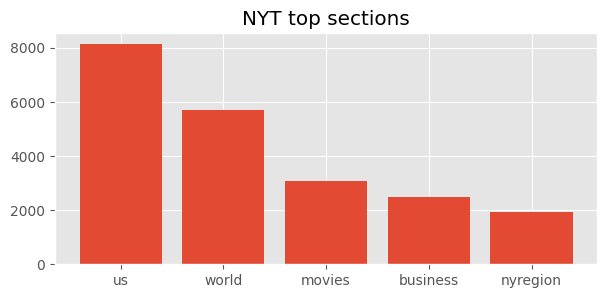
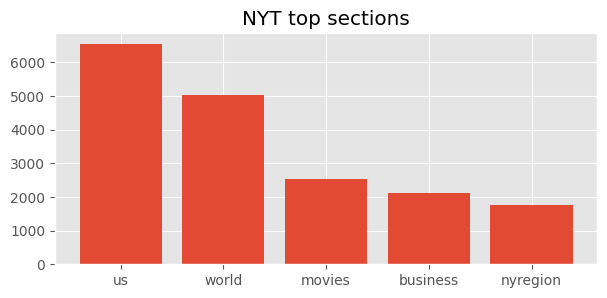
write more text about data

diff --git a/content/data-description.md b/content/data-description.md
@@ -3,15 +3,37 @@ title: Data description
 prev: "/"
 next: network-analysis
 ---
-Our data consists of news articles from Reuters and The New York Times. We specifically chose to work with news articles as there is an apparent connection between a collaboration network of authors and text that they produce together.
+The data used for this project is a subset of [All the News 2.0](https://components.one/datasets/all-the-news-2-news-articles-dataset/), which contains 2,677,878 news articles American publications spanning from January 1, 2016 to April 2, 2020.
 
+We chose to work with articles from the two publications with the most articles in the dataset: Reuters with 840,094 articles, and The New York Times (NYT) with 252,259 authors.
 
-The data used for this project is a subset of [All the News 2.0](https://components.one/datasets/all-the-news-2-news-articles-dataset/), which is an expanded version of the original All the News dataset.
-All the News 2.0 contains 2,677,878 articles with the publications spanning from January 1, 2016 to April 2, 2020.
+The dataset contains 10 features: authors, title, article text, url, section, publication and four features describing the time of publication.
+The features used in this project are: authors, article text, and section. 
 
-We chose to work with articles from the two publications with the most articles in the dataset: Reuters with 840,094 articles, and The New York Times with 252,259 authors.
+# Preprocessing
+While the data is plentiful, a lot of samples are missing entries or has otherwise corrupted entries. 
+To discard these samples, we took the following preprocessing steps
+1.  Remove articles not from Reuters or The New York Times
+2.  Remove articles that are missing either author, section or article
+3.  Remove articles in sections that has fewer than 100 articles
+4.  Remove authors that has written fewer than 5 articles
+5.  Remove articles that has fewer than 2 authors
 
-After preprocessing which includes removing data points with missing entries, we are left with 59,600 articles from Reuters and 28,511 articles from The New York Times.
+The preprocessing steps are important to describe since they bias the data and thereby the analysis.
+In this project we are thus only concerned with articles from the biggest sections of each publication that furthermore is written by at least two authors. These steps discard a signifant part of the dataset especially since most articles are written by a single author thus, the subset of data that we have currated is not an unbiased subset of articles.
+
+The major reason for removing authors with fewer than 5 articles is that the NYT data had celebrities noted as authors for several articles but this preprocessing step discarded most of these articles. See the explainer notebook for all the details.
+
+# Statistics
+After preprocessing the data, we end up with substantially fewer articles as seen in the summary statistics table below
+
+|            Stat             |  Reuters  |   NYT   |
+|:---------------------------:|:--------:|:---------:|
+|           #Articles            |  56,046  |   24,377   |
+|           #Sections            |  39  |   21   |
+|         #Authors         |  1,952   |   1,287   |
+|        Avg. words pr. article        |    608     |     1094     |
+|        Avg. #articles pr. author        |    29     |     19     |
 
 Each article has a section attribute which allow us to get an overview of which topics are most important to the two publications
 ![](/images/reuters_top_5_sections.png)
